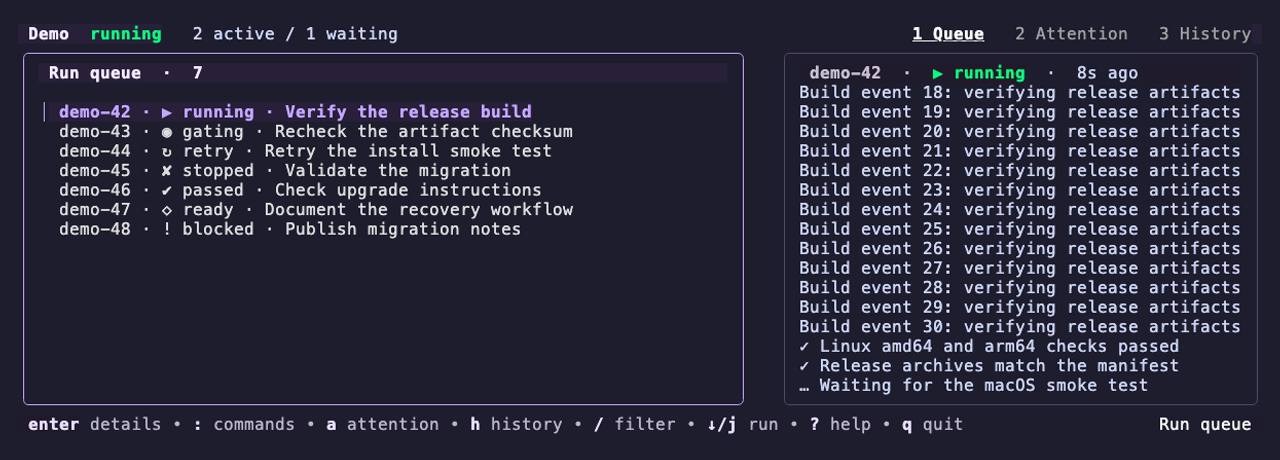
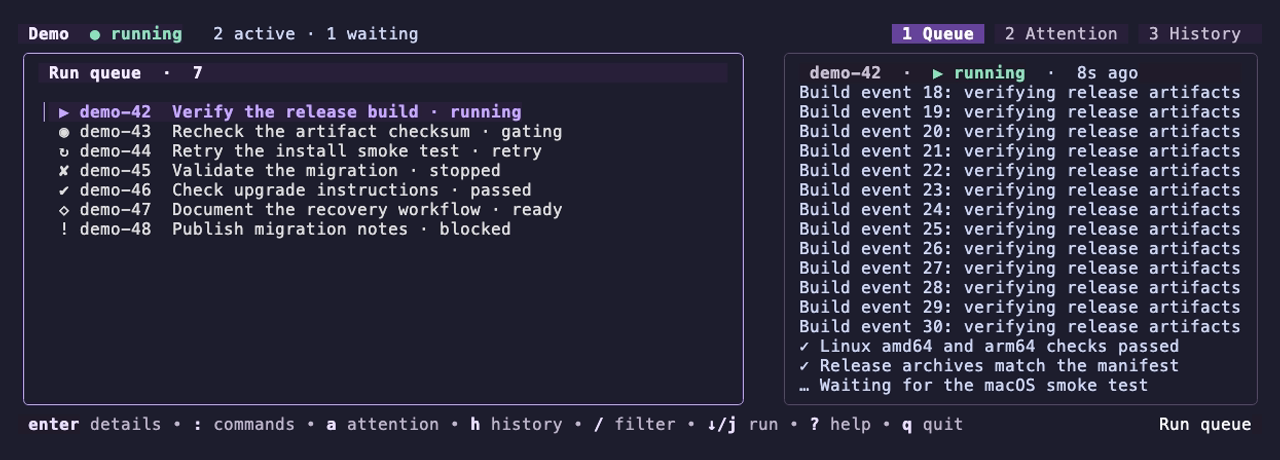
💄 Polish dashboard tabs and narrow run rows

diff --git a/internal/surface/tui/model.go b/internal/surface/tui/model.go
@@ -46,6 +46,19 @@ const (
 
 // Styles.
 var (
+	accentColor = lipgloss.AdaptiveColor{Light: "#6941A5", Dark: "#C5A7FF"}
+
+	activeTabStyle = lipgloss.NewStyle().
+			Bold(true).
+			Foreground(lipgloss.Color("#FFFFFF")).
+			Background(lipgloss.AdaptiveColor{Light: "#6236A1", Dark: "#654399"}).
+			Padding(0, 1)
+
+	inactiveTabStyle = lipgloss.NewStyle().
+				Foreground(lipgloss.AdaptiveColor{Light: "#504365", Dark: "#C7BFD1"}).
+				Background(lipgloss.AdaptiveColor{Light: "#EBE1FF", Dark: "#29203A"}).
+				Padding(0, 1)
+
 	headerStyle = lipgloss.NewStyle().
 			Bold(true).
 			Foreground(lipgloss.AdaptiveColor{Light: "#241447", Dark: "#F4EBFF"}).
@@ -75,11 +88,11 @@ var (
 
 	runningStyle = lipgloss.NewStyle().
 			Bold(true).
-			Foreground(lipgloss.Color("#00FF7F"))
+			Foreground(lipgloss.AdaptiveColor{Light: "#126447", Dark: "#8DE0BC"})
 
 	gatingStyle = lipgloss.NewStyle().
 			Bold(true).
-			Foreground(lipgloss.Color("#00BFFF"))
+			Foreground(lipgloss.AdaptiveColor{Light: "#245C82", Dark: "#9FCAEF"})
 
 	greenStyle = lipgloss.NewStyle().
 			Foreground(lipgloss.Color("#00AA00"))
@@ -88,7 +101,7 @@ var (
 			Foreground(lipgloss.Color("#FF5555"))
 
 	retryStyle = lipgloss.NewStyle().
-			Foreground(lipgloss.Color("#FFAA00"))
+			Foreground(lipgloss.AdaptiveColor{Light: "#805000", Dark: "#F3C582"})
 
 	neutralStyle = lipgloss.NewStyle().
 			Foreground(lipgloss.Color("#AAAAAA"))
@@ -109,11 +122,11 @@ func (i runItem) Title() string {
 			phase = "stopped"
 		}
 	}
-	title := i.run.IssueID + " · " + icon + " " + phase
+	title := icon + " " + i.run.IssueID
 	if i.run.Title != "" {
-		title += " · " + i.run.Title
+		title += "  " + i.run.Title
 	}
-	return title
+	return title + " · " + phase
 }
 
 func (i runItem) Description() string { return "" }
@@ -308,12 +321,11 @@ func New(path string) *Model {
 	delegate.ShowDescription = false
 	delegate.SetHeight(1)
 	delegate.SetSpacing(0)
-	accent := lipgloss.AdaptiveColor{Light: "#6941A5", Dark: "#C5A7FF"}
 	selection := lipgloss.AdaptiveColor{Light: "#EBE1FF", Dark: "#29203A"}
 	delegate.Styles.SelectedTitle = delegate.Styles.SelectedTitle.
-		Bold(true).Foreground(accent).Background(selection).BorderForeground(accent)
+		Bold(true).Foreground(accentColor).Background(selection).BorderForeground(accentColor)
 	delegate.Styles.SelectedDesc = delegate.Styles.SelectedDesc.
-		Foreground(accent).Background(selection).BorderForeground(accent)
+		Foreground(accentColor).Background(selection).BorderForeground(accentColor)
 	m.list = list.New(nil, delegate, 0, 0)
 	m.list.SetShowHelp(false)
 	m.list.SetShowTitle(false)
@@ -892,7 +904,7 @@ func (m *Model) renderHeader() string {
 			}
 		}
 	}
-	text := fmt.Sprintf("lambe  %s   %d active / %d waiting", stateStyle.Render(state), active, waiting)
+	text := fmt.Sprintf("lambe  %s   %d active · %d waiting", stateStyle.Render("● "+state), active, waiting)
 	if m.width < 44 {
 		text = "lambe  ·  " + stateStyle.Render(state)
 		if m.alive {
@@ -932,13 +944,13 @@ func (m *Model) renderQueueTabs() string {
 		active = 2
 	}
 	for i, title := range tabs {
-		style := labelStyle
+		style := inactiveTabStyle
 		if i == active {
-			style = valueStyle.Bold(true).Underline(true)
+			style = activeTabStyle
 		}
 		tabs[i] = style.Render(title)
 	}
-	return strings.Join(tabs, "   ")
+	return strings.Join(tabs, " ")
 }
 
 func (m *Model) renderBody() string {
@@ -1024,7 +1036,7 @@ func (m *Model) framePanel(content string, pane focusArea) string {
 	}
 	color := lipgloss.AdaptiveColor{Light: "#80748D", Dark: "#574A68"}
 	if m.focus == pane {
-		color = lipgloss.AdaptiveColor{Light: "#6941A5", Dark: "#C5A7FF"}
+		color = accentColor
 	}
 	return lipgloss.NewStyle().Border(lipgloss.RoundedBorder()).BorderForeground(color).Padding(0, 1).Render(content)
 }
